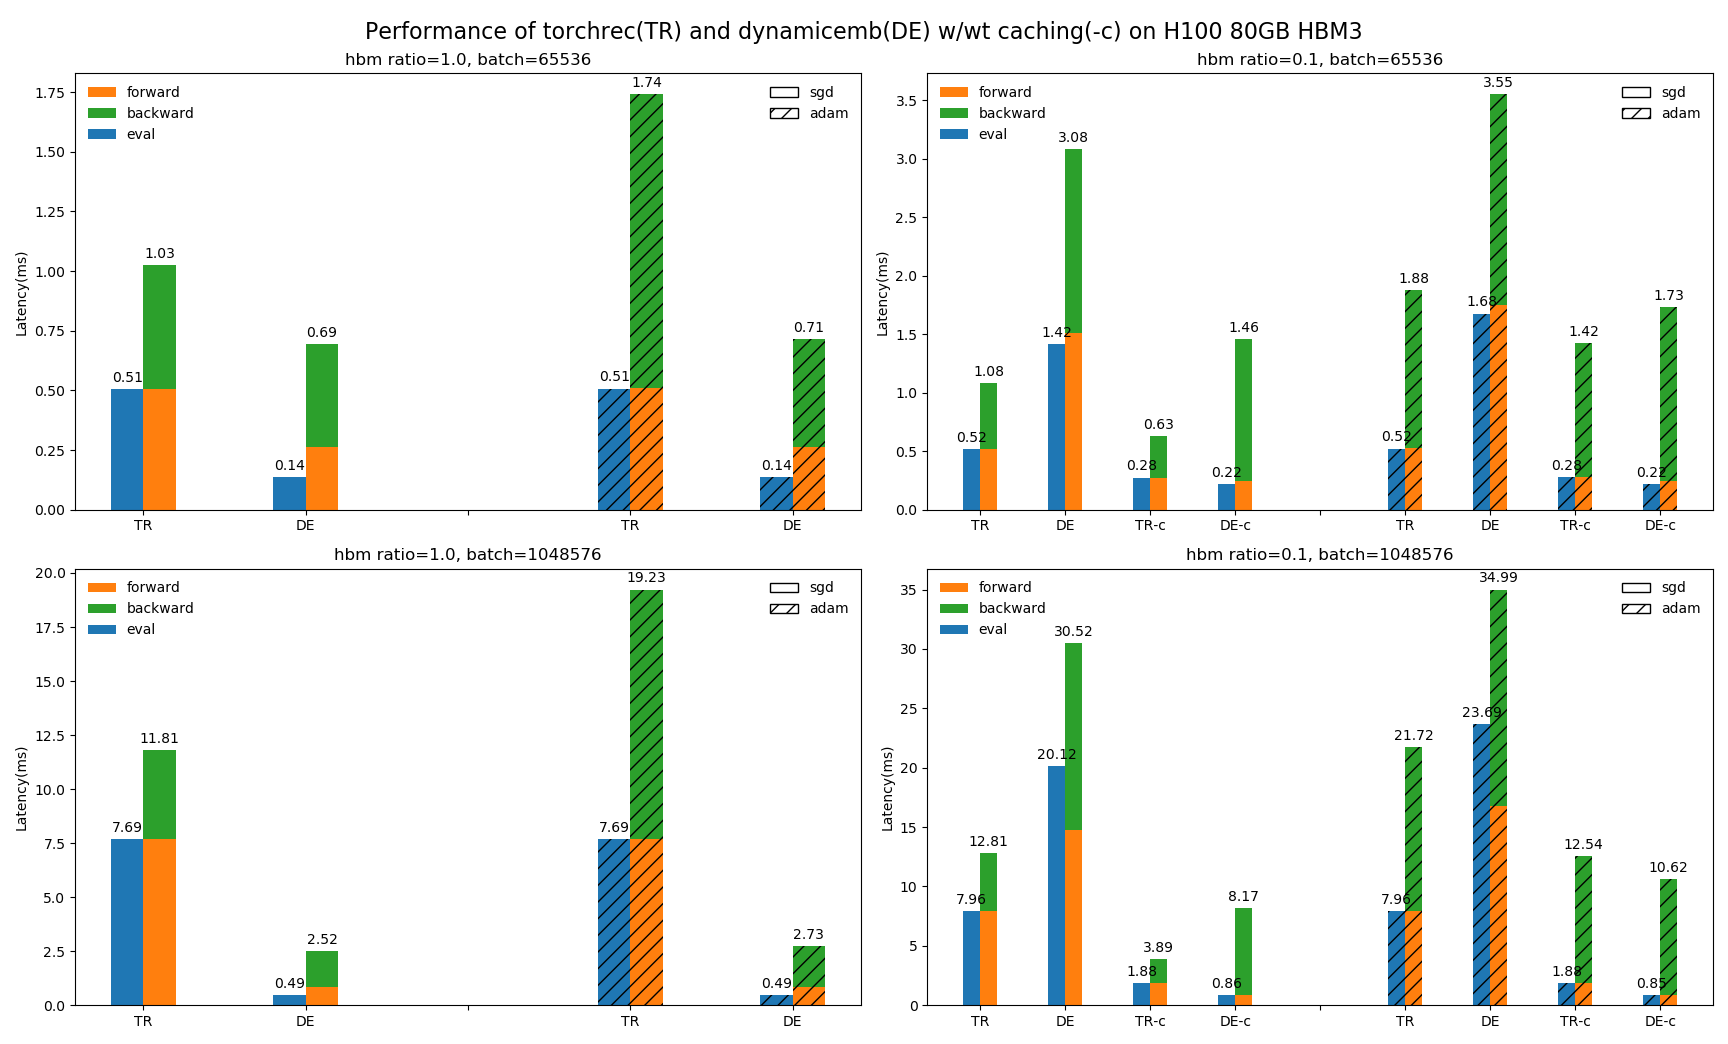
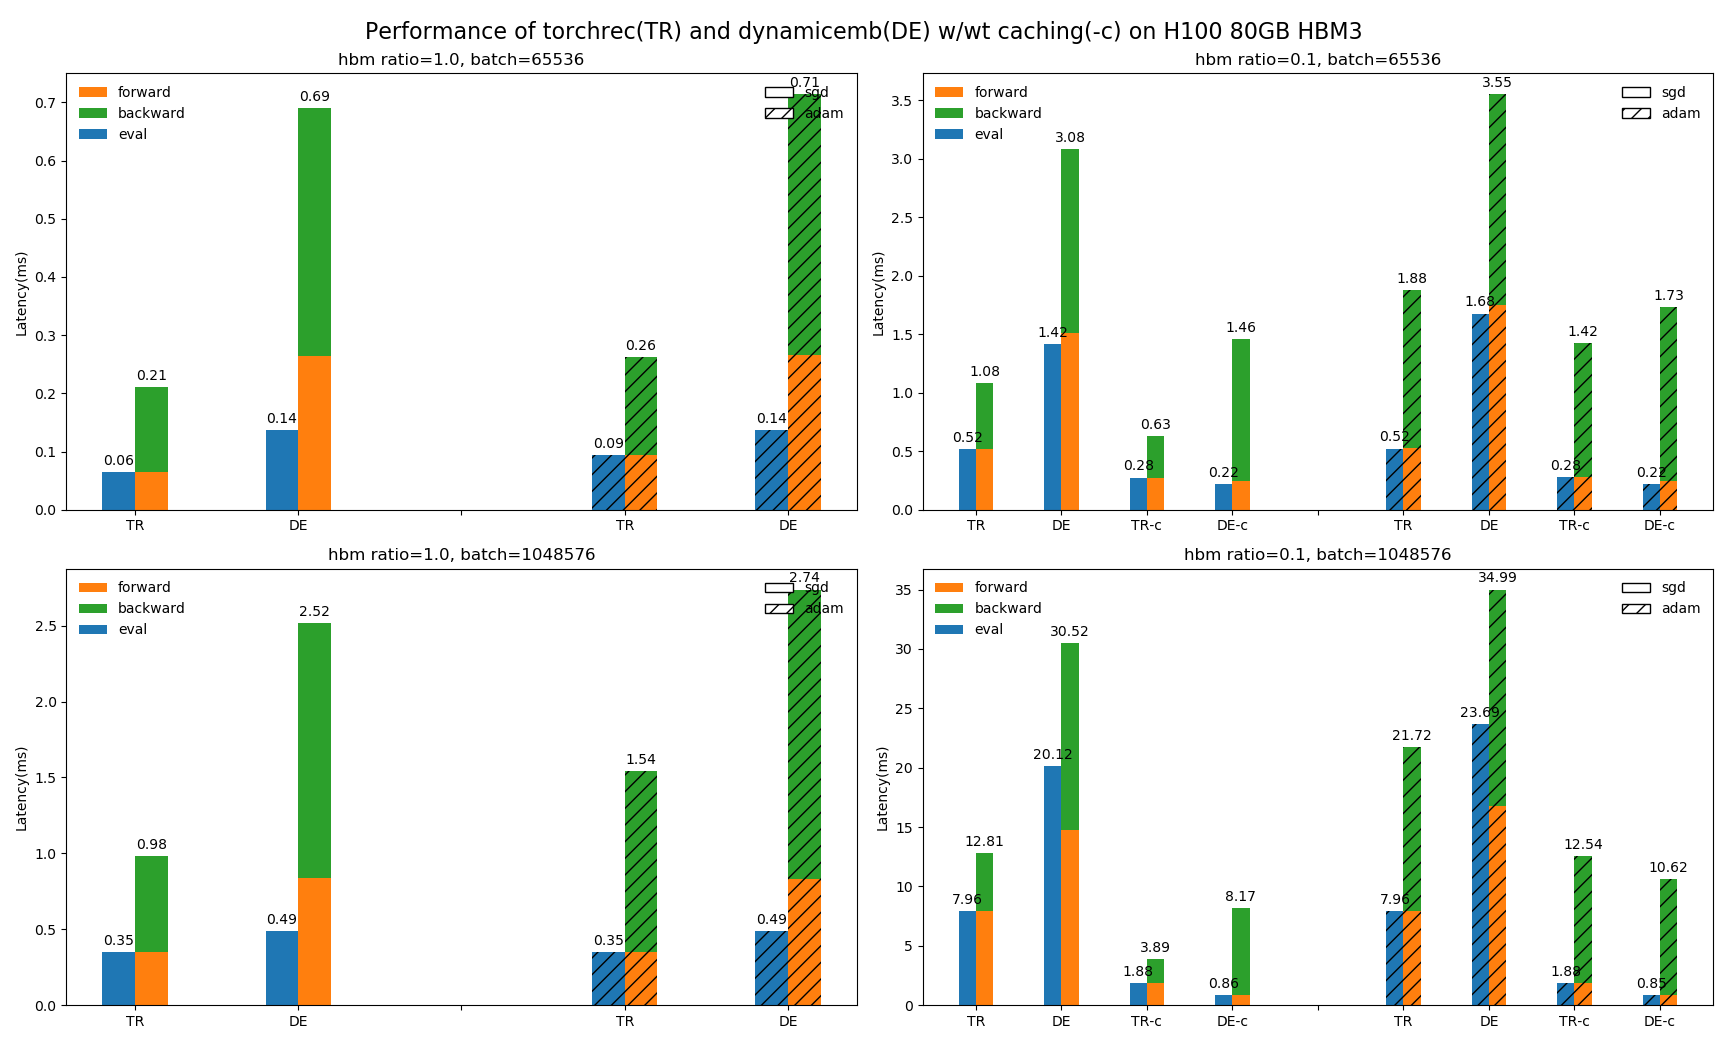
Fix test bug when using torchrec's STBE (#193)

diff --git a/corelib/dynamicemb/benchmark/benchmark_batched_dynamicemb_tables.py b/corelib/dynamicemb/benchmark/benchmark_batched_dynamicemb_tables.py
@@ -465,7 +465,9 @@ def create_split_table_batched_embeddings(args, device):
                 (
                     e,
                     D,
-                    EmbeddingLocation.MANAGED,
+                    EmbeddingLocation.MANAGED
+                    if abs(args.gpu_ratio - 1.0) > 1e-3
+                    else EmbeddingLocation.DEVICE,
                     ComputeDevice.CUDA,
                 )
                 for e in Es
@@ -483,6 +485,7 @@ def create_split_table_batched_embeddings(args, device):
             beta2=args.beta2,
             bounds_check_mode=BoundsCheckMode.NONE,
         ).cuda()
+        print(f"torchrec table 's specs={emb.embedding_specs[0]}")
     return emb
 
 
@@ -738,7 +741,7 @@ def main():
         #     torchrec_emb,
         # )
 
-    warmup_gpu(device)
+    # warmup_gpu(device)
     # torch.cuda.empty_cache()
 
     # placeholder = occupy_gpu_memory()
